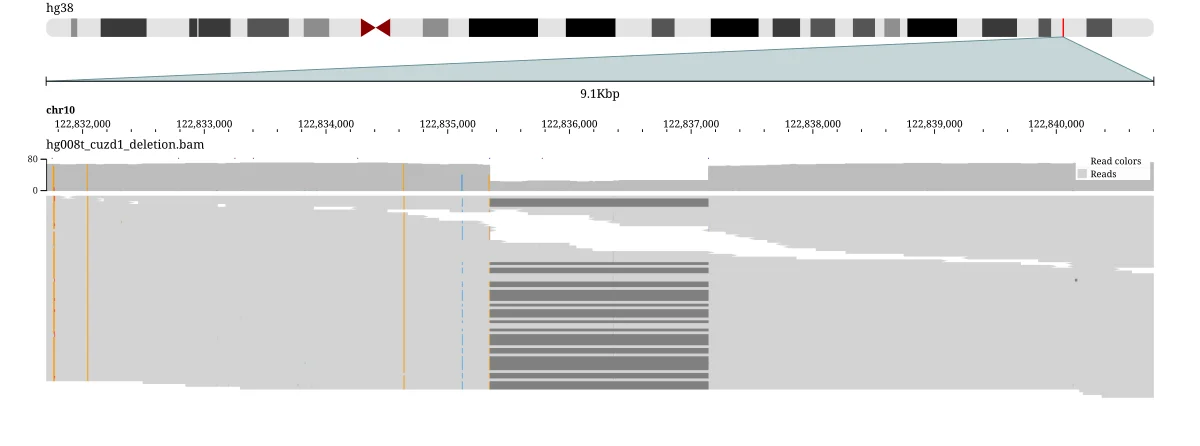
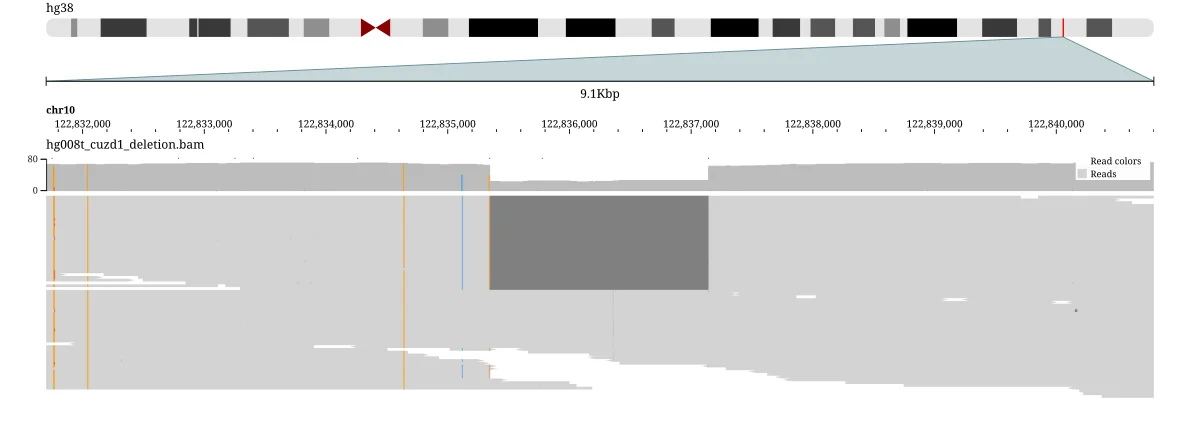
Compact reads gallery sorts by the base at the center, as the deletion example does

diff --git a/README.md b/README.md
@@ -39,7 +39,7 @@ remotes::install_github("GMOD/ggjbrowse")
 <tr><td colspan="2"><b><a href="docs/gallery.md#deletion">Reads sorted by the base at the center, over a somatic deletion</a></b> <code>chr10:122,831,700-122,840,800</code></td></tr>
 <tr><td width="50%"><img src="gallery/deletion-jbrowse.webp" alt="Reads sorted by the base at the center, over a somatic deletion in JBrowse. Coverage halves across the deletion, and the reads sorted to the top span it with dark deletion bars, each labelled with its length." width="100%"></td><td width="50%"><img src="gallery/deletion-r.webp" alt="Reads sorted by the base at the center, over a somatic deletion drawn by ggjbrowse. Coverage halves across the deletion, and the reads sorted to the top span it with dark deletion bars, each labelled with its length." width="100%"></td></tr>
 <tr><td colspan="2"><b><a href="docs/gallery.md#compact_reads">Compact reads over the same deletion</a></b> <code>chr10:122,831,700-122,840,800</code></td></tr>
-<tr><td width="50%"><img src="gallery/compact_reads-jbrowse.webp" alt="Compact reads over the same deletion in JBrowse. At 3 pixels a row the pileup takes far less height, the deletion's dark bars banded through it." width="100%"></td><td width="50%"><img src="gallery/compact_reads-r.webp" alt="Compact reads over the same deletion drawn by ggjbrowse. At 3 pixels a row the pileup takes far less height, the deletion's dark bars banded through it." width="100%"></td></tr>
+<tr><td width="50%"><img src="gallery/compact_reads-jbrowse.webp" alt="Compact reads over the same deletion in JBrowse. Sorted by the base at the center, at 3 pixels a row the pileup takes far less height, the deletion's dark bars banded through it." width="100%"></td><td width="50%"><img src="gallery/compact_reads-r.webp" alt="Compact reads over the same deletion drawn by ggjbrowse. Sorted by the base at the center, at 3 pixels a row the pileup takes far less height, the deletion's dark bars banded through it." width="100%"></td></tr>
 <tr><td colspan="2"><b><a href="docs/gallery.md#base_zoom">Base-level zoom at the deletion's left edge</a></b> <code>chr10:122,835,300-122,835,420</code></td></tr>
 <tr><td width="50%"><img src="gallery/base_zoom-jbrowse.webp" alt="Base-level zoom at the deletion's left edge in JBrowse. At 120 bp the pileup writes out each mismatch's base, and every read sorted to the top carries a G a few bases before its deletion." width="100%"></td><td width="50%"><img src="gallery/base_zoom-r.webp" alt="Base-level zoom at the deletion's left edge drawn by ggjbrowse. At 120 bp the pileup writes out each mismatch's base, and every read sorted to the top carries a G a few bases before its deletion." width="100%"></td></tr>
 <tr><td colspan="2"><b><a href="docs/gallery.md#inversion">Split reads chained across an inversion, with their arcs</a></b> <code>chr1:197,786,900-197,789,700</code></td></tr>

diff --git a/docs/gallery.md b/docs/gallery.md
@@ -104,19 +104,21 @@ jb2export --hub hg38 \
 `chr10:122,831,700-122,840,800`
 
 <table>
-<tr><td width="50%"><img src="../gallery/compact_reads-jbrowse.webp" alt="Compact reads over the same deletion in JBrowse. At 3 pixels a row the pileup takes far less height, the deletion's dark bars banded through it." width="100%"></td><td width="50%"><img src="../gallery/compact_reads-r.webp" alt="Compact reads over the same deletion drawn by ggjbrowse. At 3 pixels a row the pileup takes far less height, the deletion's dark bars banded through it." width="100%"></td></tr>
+<tr><td width="50%"><img src="../gallery/compact_reads-jbrowse.webp" alt="Compact reads over the same deletion in JBrowse. Sorted by the base at the center, at 3 pixels a row the pileup takes far less height, the deletion's dark bars banded through it." width="100%"></td><td width="50%"><img src="../gallery/compact_reads-r.webp" alt="Compact reads over the same deletion drawn by ggjbrowse. Sorted by the base at the center, at 3 pixels a row the pileup takes far less height, the deletion's dark bars banded through it." width="100%"></td></tr>
 </table>
 
-At 3 pixels a row the pileup takes far less height, the deletion's dark bars banded through it.
+Sorted by the base at the center, at 3 pixels a row the pileup takes far less height, the deletion's dark bars banded through it.
 
 ```r
 autoplot(jbrowse_alignments(e("hg008t_cuzd1_deletion.bam"),
-  "chr10:122,831,700-122,840,800", display = list(featureHeight = 3)))
+  "chr10:122,831,700-122,840,800",
+  display = list(featureHeight = 3,
+    sort = list(type = "basePair", pos = 122836300))))
 ```
 
 ```sh
 jb2export --hub hg38 \
-  --bam inst/extdata/hg008t_cuzd1_deletion.bam showLegend=true heightMode:grow growMaxHeight=2000 featureHeight:compact \
+  --bam inst/extdata/hg008t_cuzd1_deletion.bam showLegend=true heightMode:grow growMaxHeight=2000 sort:base featureHeight:compact \
   --loc chr10:122,831,700-122,840,800 \
   --width 1200 --out compact_reads.png
 ```
